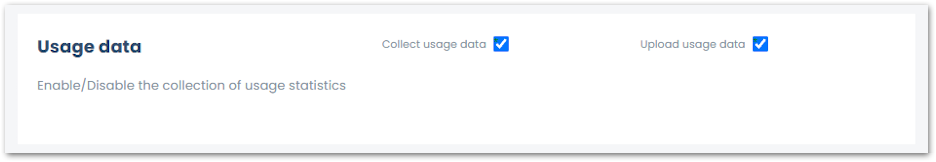
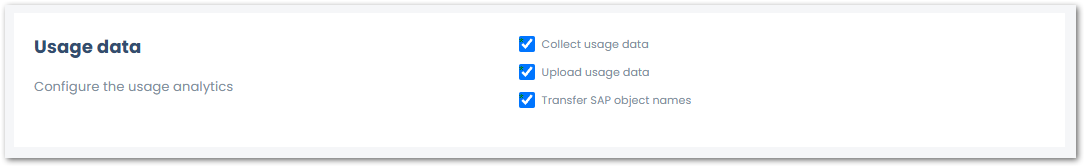
sap object name transfer

diff --git a/projects/yunio/docs/documentation/server-settings.md b/projects/yunio/docs/documentation/server-settings.md
@@ -85,7 +85,7 @@ It is not recommended to use ports below 1000, because they are often already ta
 |Designer|8077|8177|This port is used to open the yunIO Designer on a client machine.|
 |WebSockets|8076|8176|This port is used by the yunIO Designer to read and write configurations, services, etc.|
 
-### Usage Analytics
+### Usage Data
 
 ![Server-Settings-usage-analytics](../assets/images/yunio/documentation/server-settings-usage-analytics.png){:class="img-responsive" }
 
@@ -101,4 +101,8 @@ If this checkbox is deactivated, no usage data is collected.
 #### Upload Usage Data
 
 When this checkbox is active, usage data is sent to Theobald Software for analysis. 
-This requires a connection to the internet.
+An internet connection is required to use this option.
+
+#### Transfer SAP Object Names
+
+When this checkbox is active, the names of the SAP objects used in extractions are included in the usage data upload.

diff --git a/includes/server/server-settings.md b/includes/server/server-settings.md
@@ -86,7 +86,11 @@ For more information, refer to our [privacy policy](https://theobald-software.co
 #### Upload Usage Data
 
 When this checkbox is active, usage data is sent to Theobald Software for analysis. 
-This requires a connection to the internet.
+An internet connection is required to use this option.
+
+#### Transfer SAP Object Names
+
+When this checkbox is active, the names of the SAP objects that are used in extractions are included in the usage data upload.
 
 
 #### Enable setup distribution for clients
